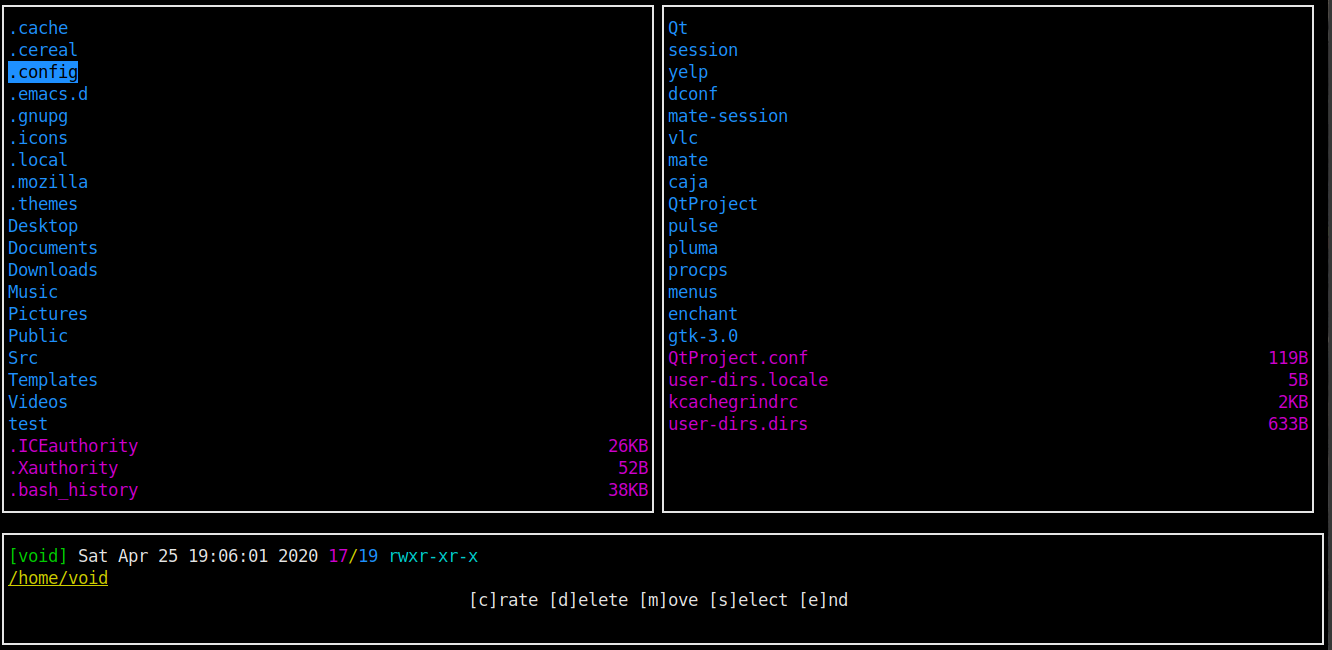
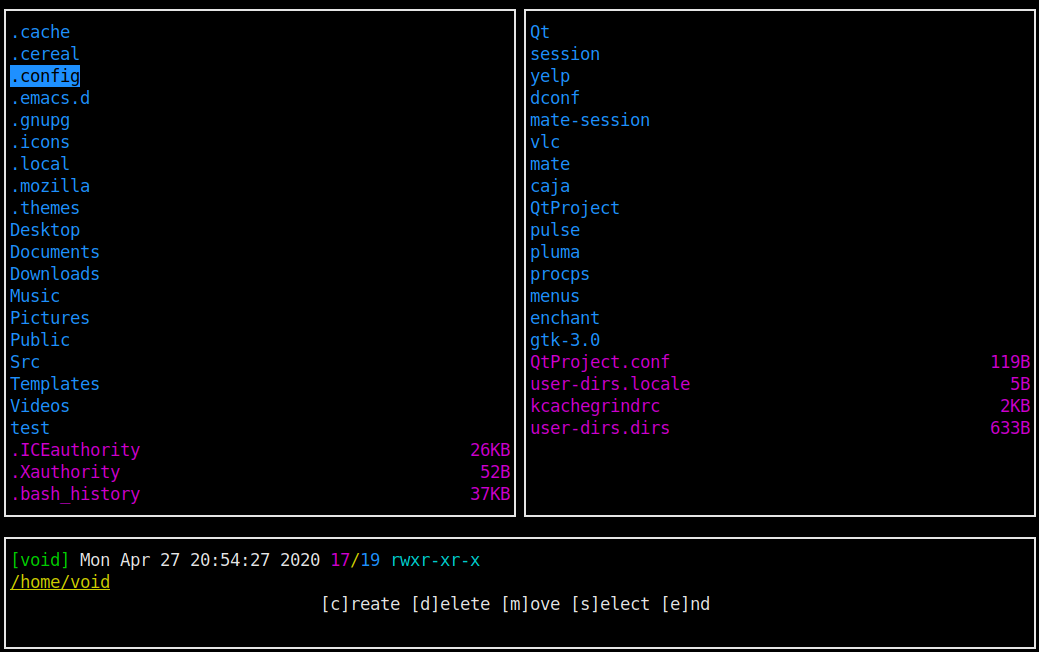
main: Fixed a typo.

Changed region(s): [[0.0, 0.0, 1.0, 1.0]]

diff --git a/main.cc b/main.cc
@@ -200,7 +200,7 @@ int main()
         if (!selection.empty())
             scene[BOTTOM].print(" selection: " + std::to_string(selection.size()));
         scene[BOTTOM].print_left(2, current->abs_path(), A_UNDERLINE | COLOR_PAIR(3));
-        scene[BOTTOM].print_center(3, "[c]rate [d]elete [m]ove [s]elect [e]nd");
+        scene[BOTTOM].print_center(3, "[c]reate [d]elete [m]ove [s]elect [e]nd");
 
         /* Refresh the windowws and wait for an event */
         scene.refresh();
